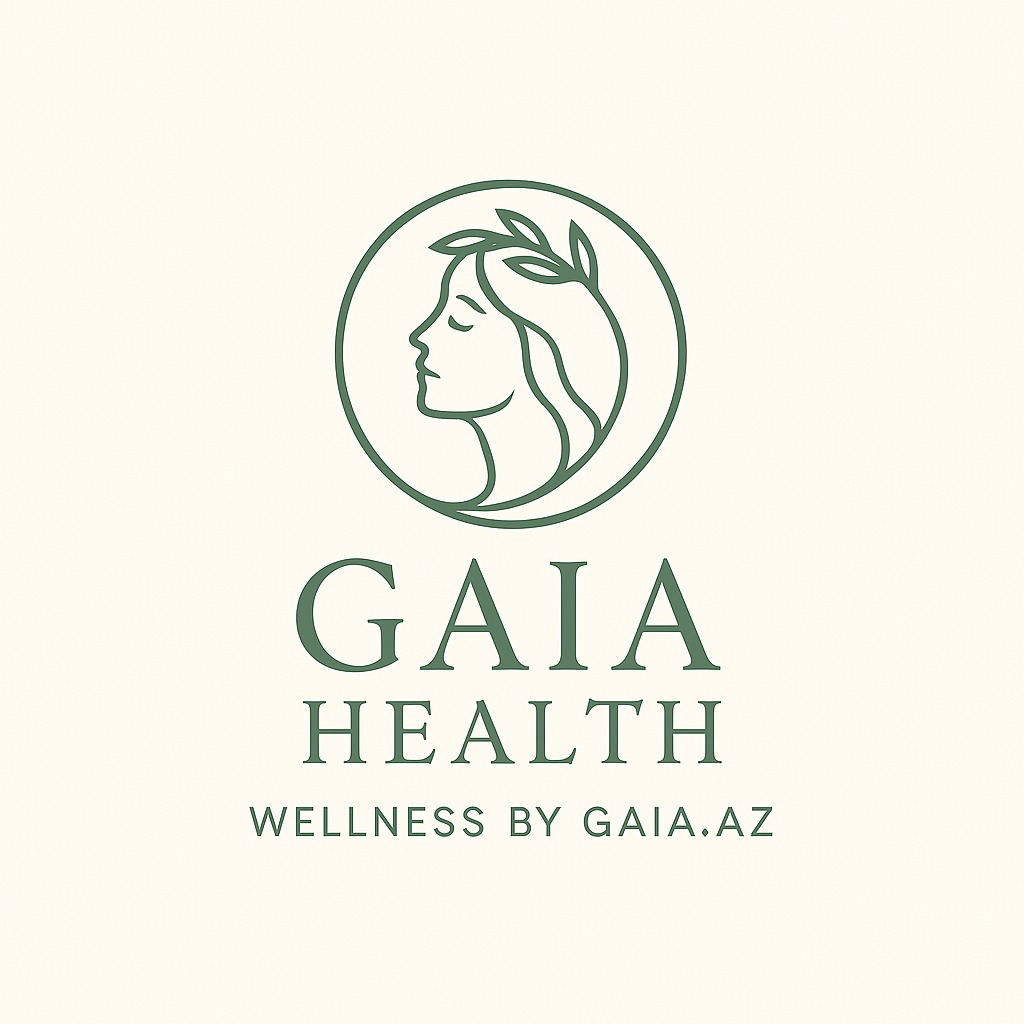
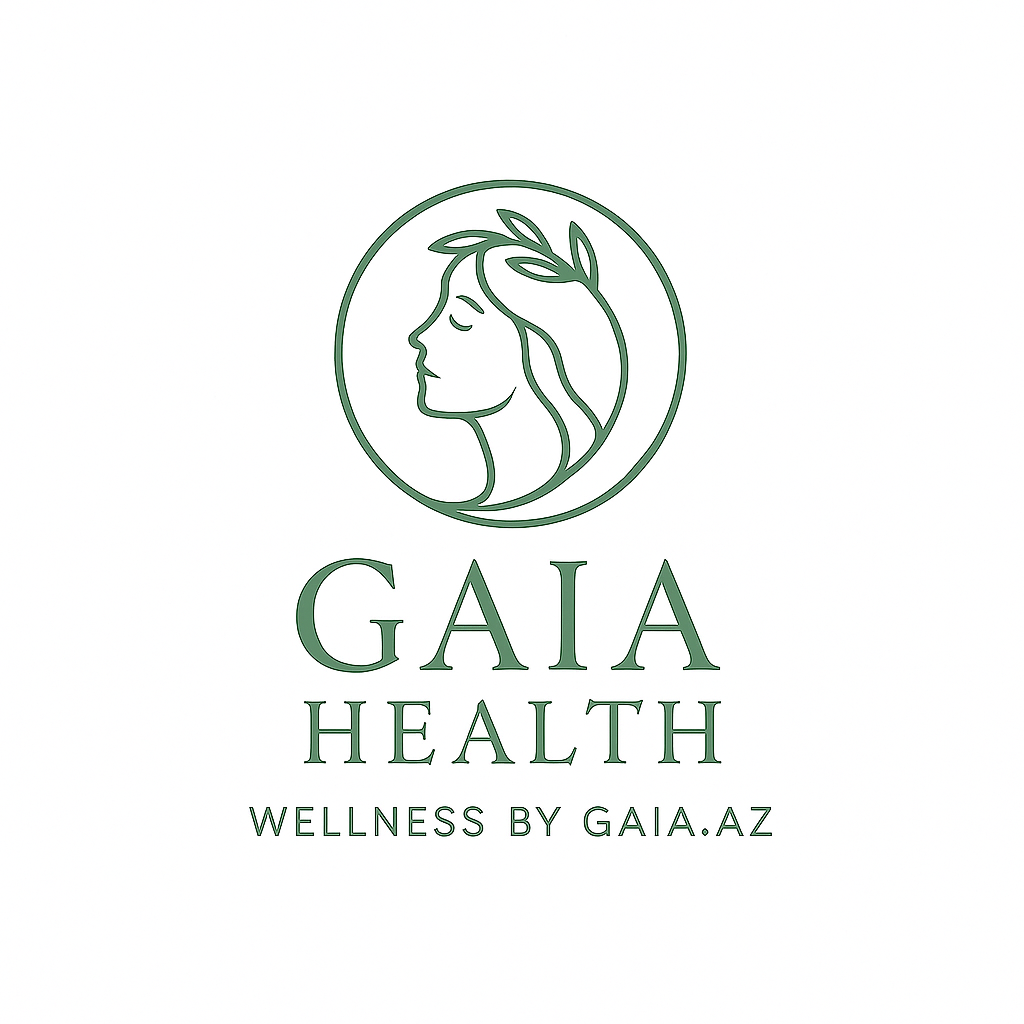
change card image

diff --git a/src/mycomponents/header/Established.jsx b/src/mycomponents/header/Established.jsx
@@ -6,25 +6,29 @@ export function Established() {
     const saRef = useRef(null);
 
     const data = [
-        {
+        {   
+            id:'gaia',
             title: 'Gaia Azerbaijan',
-            imgUrl: 'Logo_Gaia.png',
+            imgUrl: 'gaia.png',
             description: 'Powering progress with precision. From oil & gas to construction and safety, Gaia delivers smart industrial solutions with global standards and local expertise — your one-stop partner for engineering, inspection, and innovation.',
             link: ''
         },
-        {
+        {   
+            id:'voyage',
             title: 'Gaia Voyage',
             imgUrl: 'gaia_voyage.png',
             description: 'Offers tailor-made tours and premium travel services across Azerbaijan. From cultural escapes to luxury experiences, we deliver personalized, seamless journeys filled with adventure, comfort, and local authenticity.',
             link: 'https://gaiavoyagebaku.com/en'
         },
-        {
+        {   
+            id:'health',
             title: 'Gaia Health',
             imgUrl: 'gaia_health.jpg',
             description: 'Is a nature-based wellness concept offering herbal detox, ancestral healing, and energy-balancing therapies in Azerbaijan. We use no machines or chemicals — only traditional wisdom, breathwork, and natural spaces.',
             link: ''
         },
-        {
+        {   
+            id:'eleven',
             title: 'Ten Eleven Baku',
             imgUrl: 'tenEleven.webp',
             description: 'Feel the rhythm of Baku nights! Colorful cocktails, live music, and an unforgettable atmosphere — where freedom, flavor, and rhythm come together in one vibrant bar and lounge.',
@@ -50,8 +54,8 @@ export function Established() {
                 <div className="flex justify-center flex-wrap gap-x-4 gap-y-8 py-6">
                     {data.map((item, i) => (
                         <article key={i} className="md:w-[45%] rounded-2xl overflow-hidden bg-[#e0e1cc] lg:w-[23%] flex flex-col">
-                            <span className="bg-[#fefaf0]">
-                                <img alt={item.title} className="object-cover aspect-square" src={path + item.imgUrl} />
+                            <span className="bg-[#fffffe] overflow-hidden">
+                                <img alt={item.title} className={`${item.id == 'health' ? 'scale-[1.3]' : ''} w-full object-cover md:aspect-square`} src={path + item.imgUrl} />
                             </span>
                             <div className="flex flex-col flex-1 p-6">
                                 <h3 className="flex-1 text-currColor pb-2 text-lg font-semibold leading-snug">{item.title}</h3>
